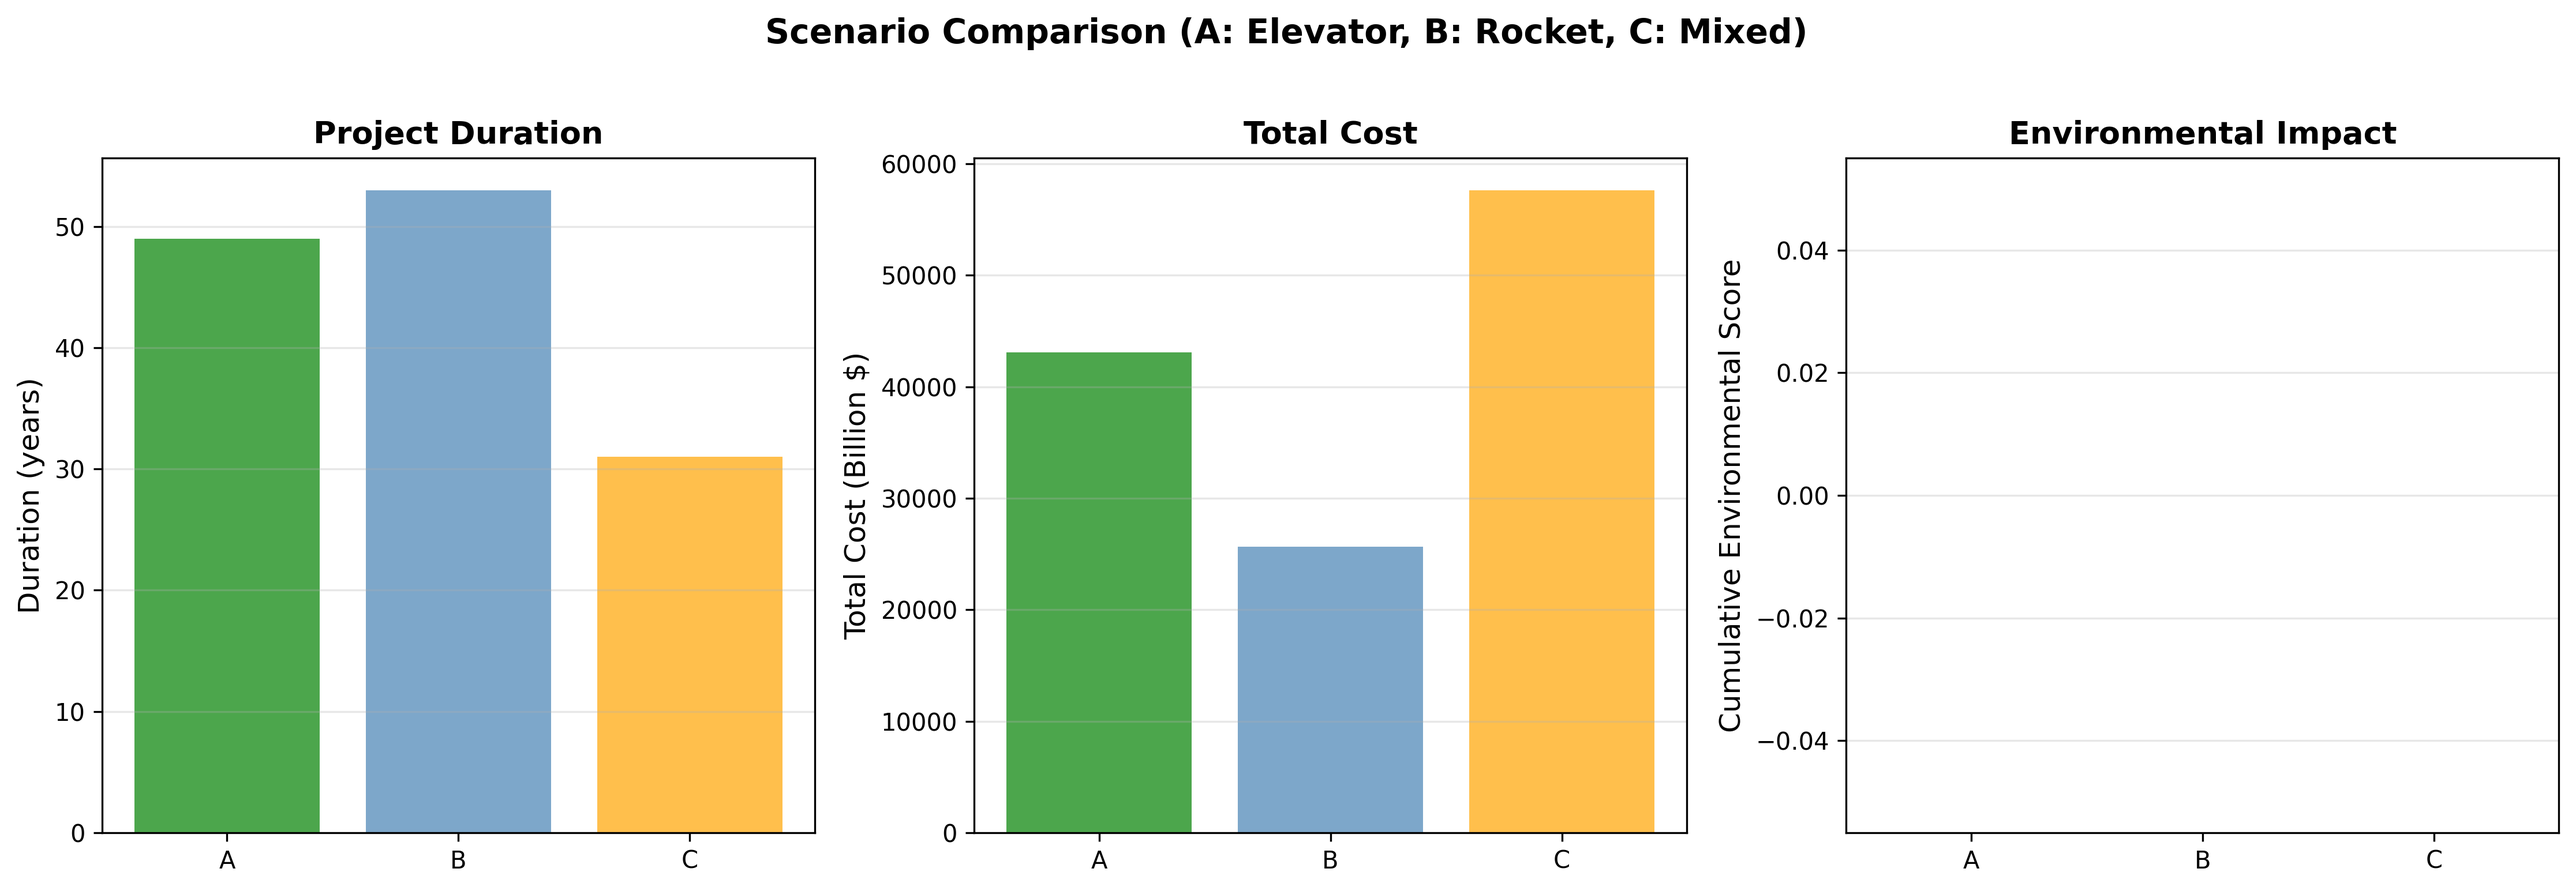
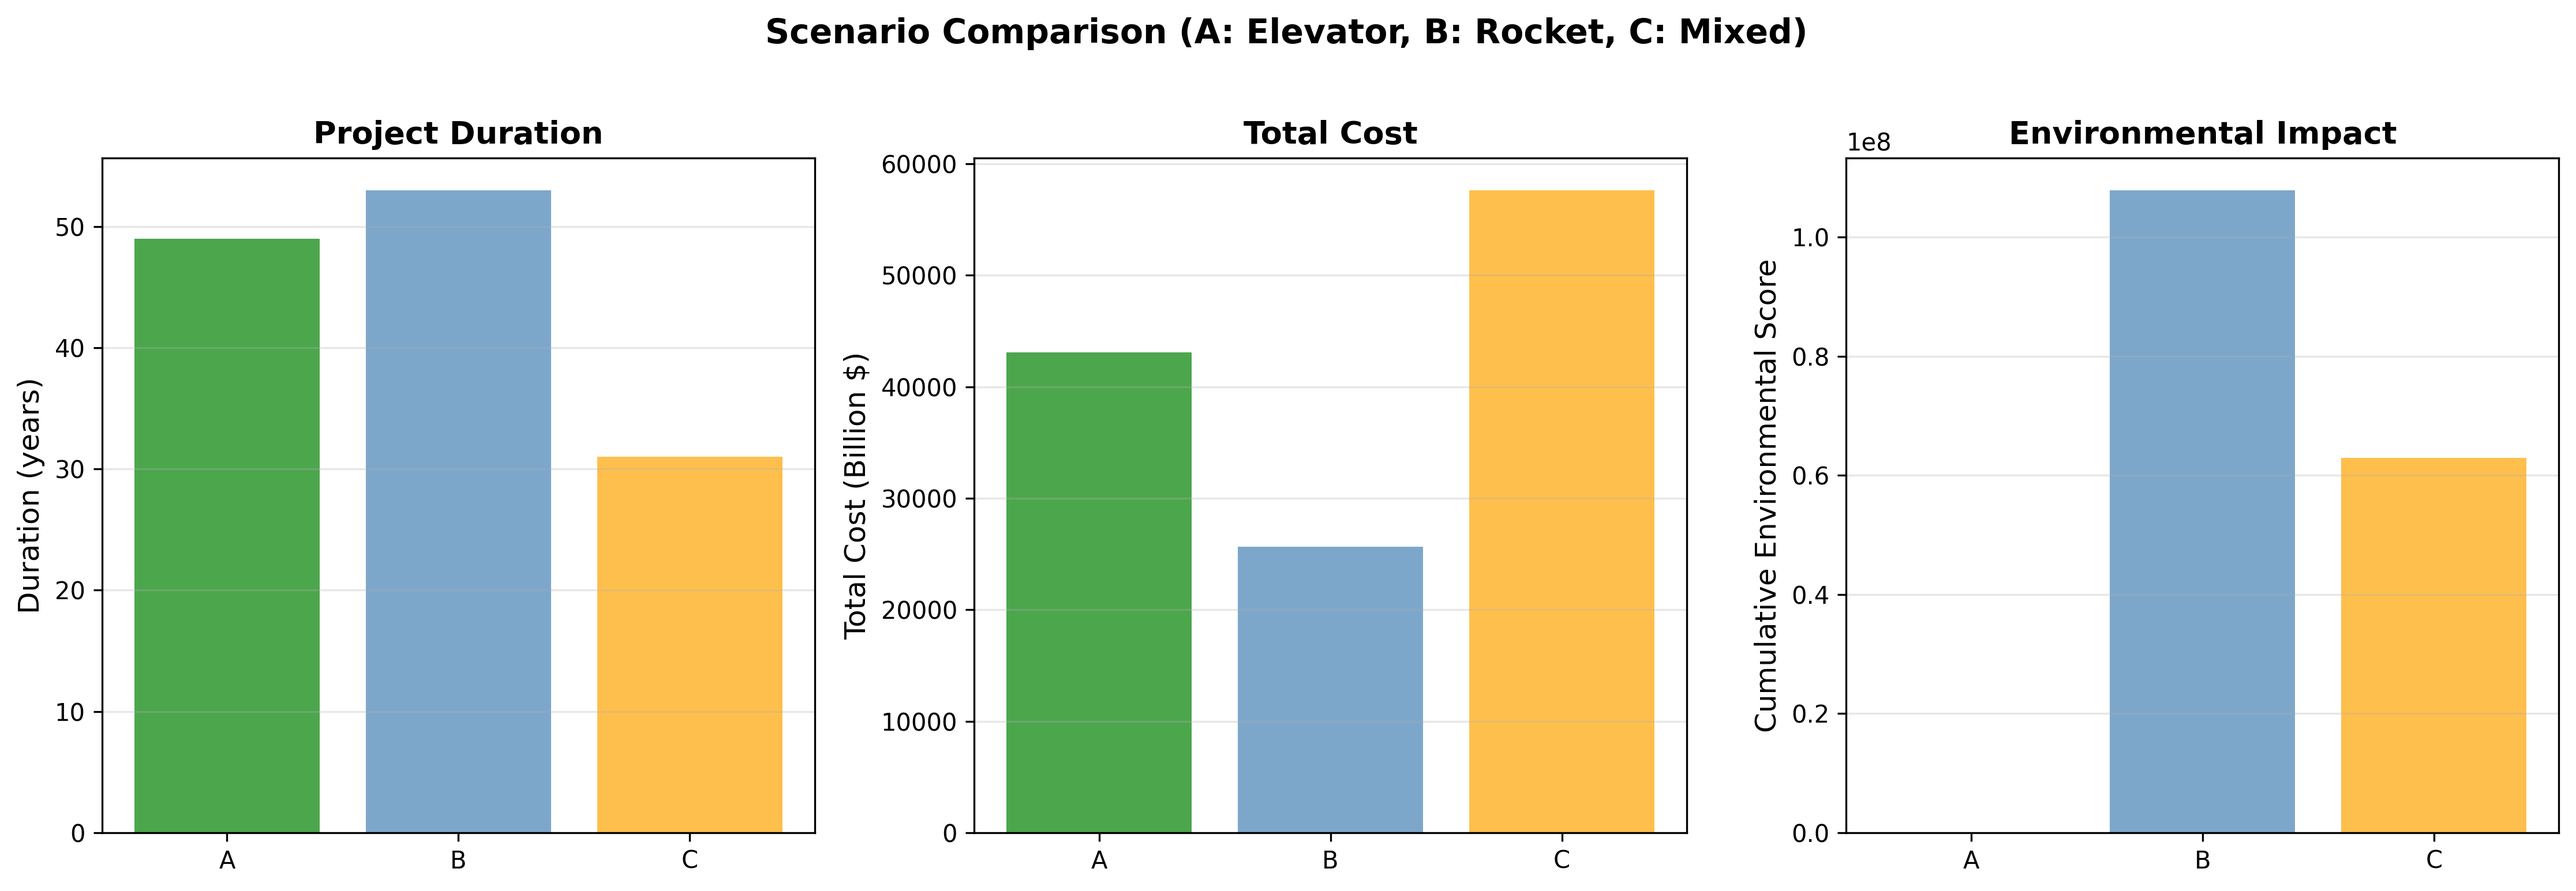
Fix Q4 environmental tax calculation and add proper context flags

diff --git a/main.py b/main.py
@@ -68,8 +68,12 @@ def solve_q4():
     
     ctx_baseline = SimulationContext()
     ctx_baseline.is_stochastic = False
+    ctx_baseline.enable_environment = True  # ✅ Master switch
     ctx_baseline.calc_environmental_impact = True
     ctx_baseline.use_progressive_tax = False  # 不使用环境税
+    
+    # Note: For Scenario C, we need use_monte_carlo_env for env calculations
+    # But since we're not using tax here, we skip it for now
     
     sim_baseline = Simulator(ctx_baseline)
     
@@ -126,6 +130,8 @@ def solve_q4():
         
         ctx_tax = SimulationContext()
         ctx_tax.is_stochastic = False
+        ctx_tax.enable_environment = True  # ✅ Master switch
+        ctx_tax.use_monte_carlo_env = True  # ✅ Required for Scenario C env tax
         ctx_tax.calc_environmental_impact = True
         
         if multiplier == 0:
@@ -139,9 +145,9 @@ def solve_q4():
         result = sim_tax.run('C')
         
         # 统计环境税
-        total_env_cost = sum(h.get('env_cost', 0) for h in result.history)
         total_tax_atm = sum(h.get('tax_atm', 0) for h in result.history)
         total_tax_orb = sum(h.get('tax_orb', 0) for h in result.history)
+        total_env_cost = total_tax_atm + total_tax_orb  # Total environmental tax
         
         tax_results.append({
             'multiplier': multiplier,
